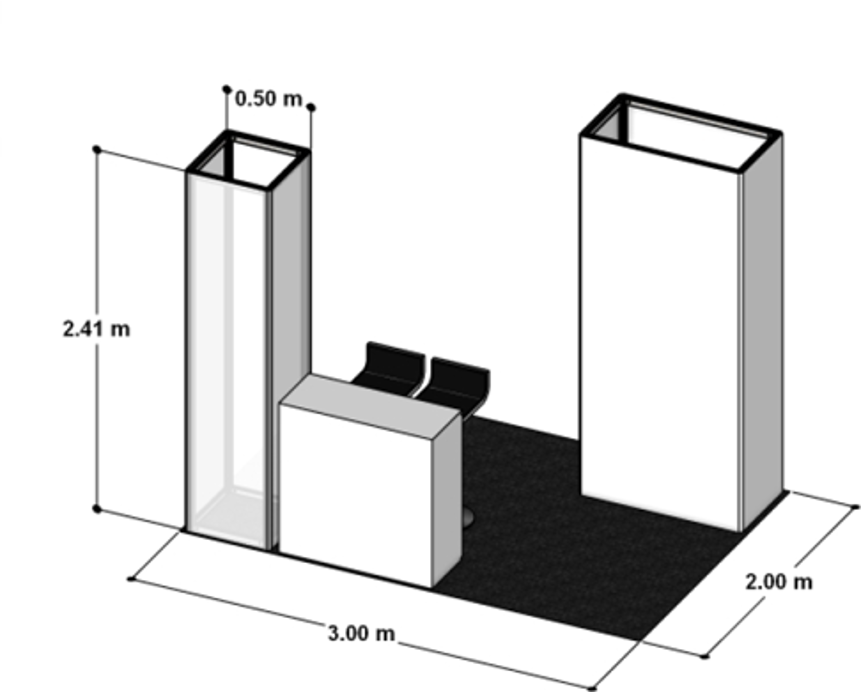
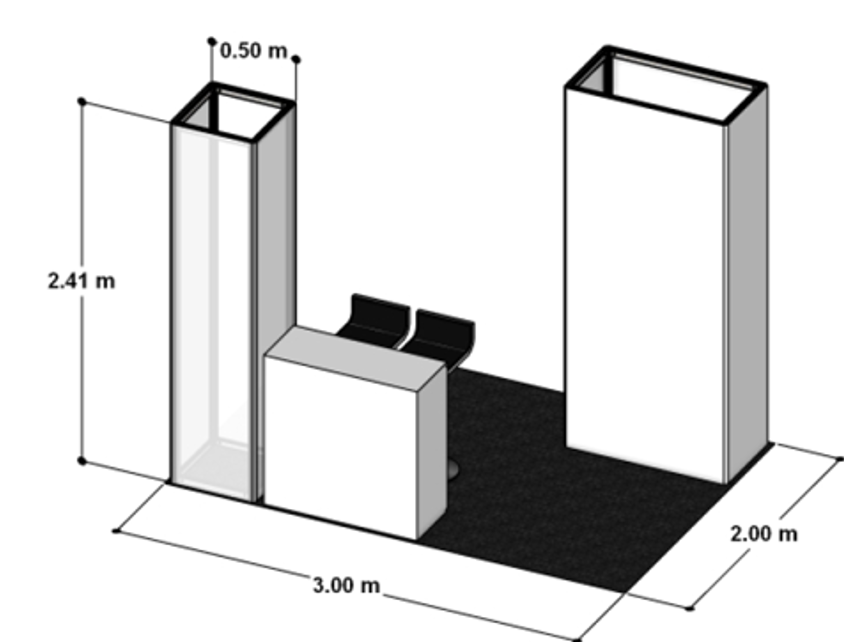
Trim exhibit diagrams and make Gold/Silver cards visually symmetric
The source diagrams had a stray 1px border artifact and uneven
whitespace, and their different native aspect ratios (1.31 vs 0.99)
made the two cards look mismatched side by side. Trimmed both images
tightly to their content and placed them in a shared square,
object-fit:contain container so both cards render at identical size
regardless of each diagram's own proportions.

diff --git a/aviatdo-360-partner-es.html b/aviatdo-360-partner-es.html
@@ -202,8 +202,8 @@
           <div style="font-family:var(--font-condensed); font-size:12px; font-weight:700; letter-spacing:0.06em; text-transform:uppercase; color:var(--brand-red); margin-bottom:8px;">Espacio de exhibición Oro</div>
           <div style="font-family:var(--font-headline); font-weight:900; font-size:24px; letter-spacing:-0.02em; margin-bottom:4px;">US$3.750</div>
           <div style="font-size:12px; color:var(--muted); margin-bottom:18px;">Por la duración del foro</div>
-          <div style="background:var(--sand-beige); border-radius:12px; padding:16px; margin-bottom:18px;">
-            <img src="images/exhibit-gold-diagram.webp" width="861" height="692" loading="lazy" alt="Diagrama del espacio de exhibición Oro: superficie de 3 × 2 m con torre de tela translúcida de 2,41 m de alto, fondo de 1 × 2,41 m, mostrador de 1 × 1 m y una silla de cóctel" style="width:100%; height:auto; display:block;">
+          <div style="background:var(--sand-beige); border-radius:12px; padding:20px; margin-bottom:18px; aspect-ratio:1/1; display:flex; align-items:center; justify-content:center;">
+            <img src="images/exhibit-gold-diagram.webp" width="844" height="642" loading="lazy" alt="Diagrama del espacio de exhibición Oro: superficie de 3 × 2 m con torre de tela translúcida de 2,41 m de alto, fondo de 1 × 2,41 m, mostrador de 1 × 1 m y una silla de cóctel" style="max-width:100%; max-height:100%; width:auto; height:auto; object-fit:contain; display:block;">
           </div>
           <div style="display:flex; flex-direction:column; gap:8px; margin-bottom:16px;">
             <div style="display:flex; gap:10px; align-items:flex-start;"><span style="flex-shrink:0; width:6px; height:6px; border-radius:50%; background:var(--brand-red); margin-top:7px;"></span><span style="font-size:13.5px; line-height:1.55; color:var(--graphite);">Torre de exhibición con revestimiento de tela translúcida, 0,5 × 2,41 m</span></div>
@@ -219,8 +219,8 @@
           <div style="font-family:var(--font-condensed); font-size:12px; font-weight:700; letter-spacing:0.06em; text-transform:uppercase; color:var(--brand-red); margin-bottom:8px;">Espacio de exhibición Plata</div>
           <div style="font-family:var(--font-headline); font-weight:900; font-size:24px; letter-spacing:-0.02em; margin-bottom:4px;">US$2.750</div>
           <div style="font-size:12px; color:var(--muted); margin-bottom:18px;">Por la duración del foro</div>
-          <div style="background:var(--sand-beige); border-radius:12px; padding:16px; margin-bottom:18px;">
-            <img src="images/exhibit-silver-diagram.webp" width="672" height="681" loading="lazy" alt="Diagrama del espacio de exhibición Plata: superficie de 2 × 2 m con torre de tela translúcida de 2,41 m de alto, fondo de 1 × 2,41 m, mostrador de 1 × 1 m y una silla de cóctel" style="width:100%; height:auto; display:block;">
+          <div style="background:var(--sand-beige); border-radius:12px; padding:20px; margin-bottom:18px; aspect-ratio:1/1; display:flex; align-items:center; justify-content:center;">
+            <img src="images/exhibit-silver-diagram.webp" width="668" height="677" loading="lazy" alt="Diagrama del espacio de exhibición Plata: superficie de 2 × 2 m con torre de tela translúcida de 2,41 m de alto, fondo de 1 × 2,41 m, mostrador de 1 × 1 m y una silla de cóctel" style="max-width:100%; max-height:100%; width:auto; height:auto; object-fit:contain; display:block;">
           </div>
           <div style="display:flex; flex-direction:column; gap:8px; margin-bottom:16px;">
             <div style="display:flex; gap:10px; align-items:flex-start;"><span style="flex-shrink:0; width:6px; height:6px; border-radius:50%; background:var(--brand-red); margin-top:7px;"></span><span style="font-size:13.5px; line-height:1.55; color:var(--graphite);">Torre de exhibición con revestimiento de tela translúcida, 0,5 × 2,41 m</span></div>

diff --git a/aviatdo-360-partner.html b/aviatdo-360-partner.html
@@ -203,8 +203,8 @@
           <div style="font-family:var(--font-condensed); font-size:12px; font-weight:700; letter-spacing:0.06em; text-transform:uppercase; color:var(--brand-red); margin-bottom:8px;">Gold exhibit space</div>
           <div style="font-family:var(--font-headline); font-weight:900; font-size:24px; letter-spacing:-0.02em; margin-bottom:4px;">US$3,750</div>
           <div style="font-size:12px; color:var(--muted); margin-bottom:18px;">For the forum length</div>
-          <div style="background:var(--sand-beige); border-radius:12px; padding:16px; margin-bottom:18px;">
-            <img src="images/exhibit-gold-diagram.webp" width="861" height="692" loading="lazy" alt="Gold exhibit space layout diagram: 3 × 2 m footprint with a 2.41 m tall translucent fabric-skin tower, 1 × 2.41 m backing panel, 1 × 1 m counter and a cocktail chair" style="width:100%; height:auto; display:block;">
+          <div style="background:var(--sand-beige); border-radius:12px; padding:20px; margin-bottom:18px; aspect-ratio:1/1; display:flex; align-items:center; justify-content:center;">
+            <img src="images/exhibit-gold-diagram.webp" width="844" height="642" loading="lazy" alt="Gold exhibit space layout diagram: 3 × 2 m footprint with a 2.41 m tall translucent fabric-skin tower, 1 × 2.41 m backing panel, 1 × 1 m counter and a cocktail chair" style="max-width:100%; max-height:100%; width:auto; height:auto; object-fit:contain; display:block;">
           </div>
           <div style="display:flex; flex-direction:column; gap:8px; margin-bottom:16px;">
             <div style="display:flex; gap:10px; align-items:flex-start;"><span style="flex-shrink:0; width:6px; height:6px; border-radius:50%; background:var(--brand-red); margin-top:7px;"></span><span style="font-size:13.5px; line-height:1.55; color:var(--graphite);">Exhibition tower with translucent fabric skin, 0.5 × 2.41 m</span></div>
@@ -220,8 +220,8 @@
           <div style="font-family:var(--font-condensed); font-size:12px; font-weight:700; letter-spacing:0.06em; text-transform:uppercase; color:var(--brand-red); margin-bottom:8px;">Silver exhibit space</div>
           <div style="font-family:var(--font-headline); font-weight:900; font-size:24px; letter-spacing:-0.02em; margin-bottom:4px;">US$2,750</div>
           <div style="font-size:12px; color:var(--muted); margin-bottom:18px;">For the forum length</div>
-          <div style="background:var(--sand-beige); border-radius:12px; padding:16px; margin-bottom:18px;">
-            <img src="images/exhibit-silver-diagram.webp" width="672" height="681" loading="lazy" alt="Silver exhibit space layout diagram: 2 × 2 m footprint with a 2.41 m tall translucent fabric-skin tower, 1 × 2.41 m backing panel, 1 × 1 m counter and a cocktail chair" style="width:100%; height:auto; display:block;">
+          <div style="background:var(--sand-beige); border-radius:12px; padding:20px; margin-bottom:18px; aspect-ratio:1/1; display:flex; align-items:center; justify-content:center;">
+            <img src="images/exhibit-silver-diagram.webp" width="668" height="677" loading="lazy" alt="Silver exhibit space layout diagram: 2 × 2 m footprint with a 2.41 m tall translucent fabric-skin tower, 1 × 2.41 m backing panel, 1 × 1 m counter and a cocktail chair" style="max-width:100%; max-height:100%; width:auto; height:auto; object-fit:contain; display:block;">
           </div>
           <div style="display:flex; flex-direction:column; gap:8px; margin-bottom:16px;">
             <div style="display:flex; gap:10px; align-items:flex-start;"><span style="flex-shrink:0; width:6px; height:6px; border-radius:50%; background:var(--brand-red); margin-top:7px;"></span><span style="font-size:13.5px; line-height:1.55; color:var(--graphite);">Exhibition tower with translucent fabric skin, 0.5 × 2.41 m</span></div>
